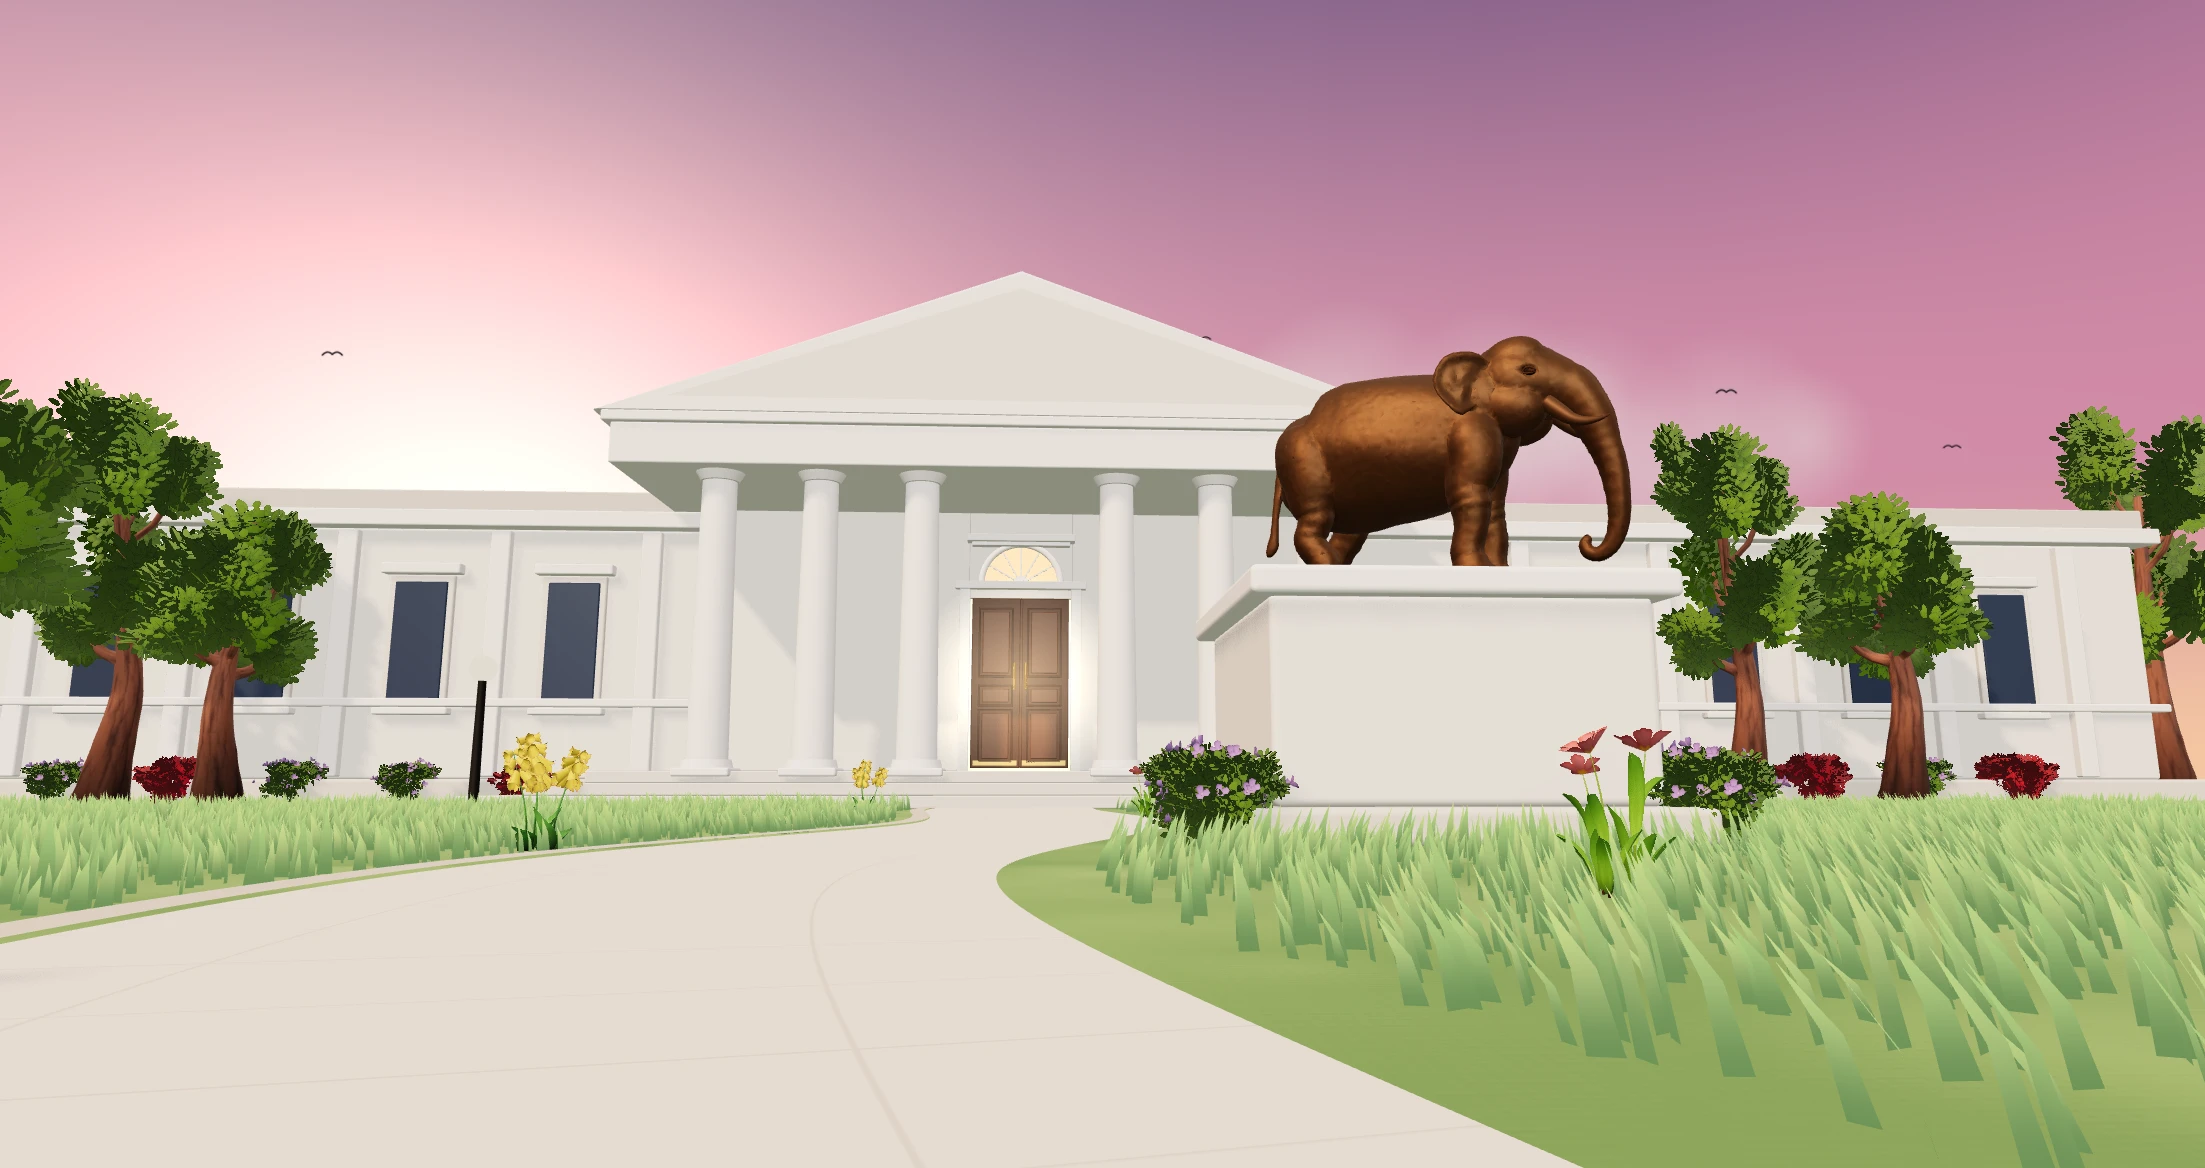
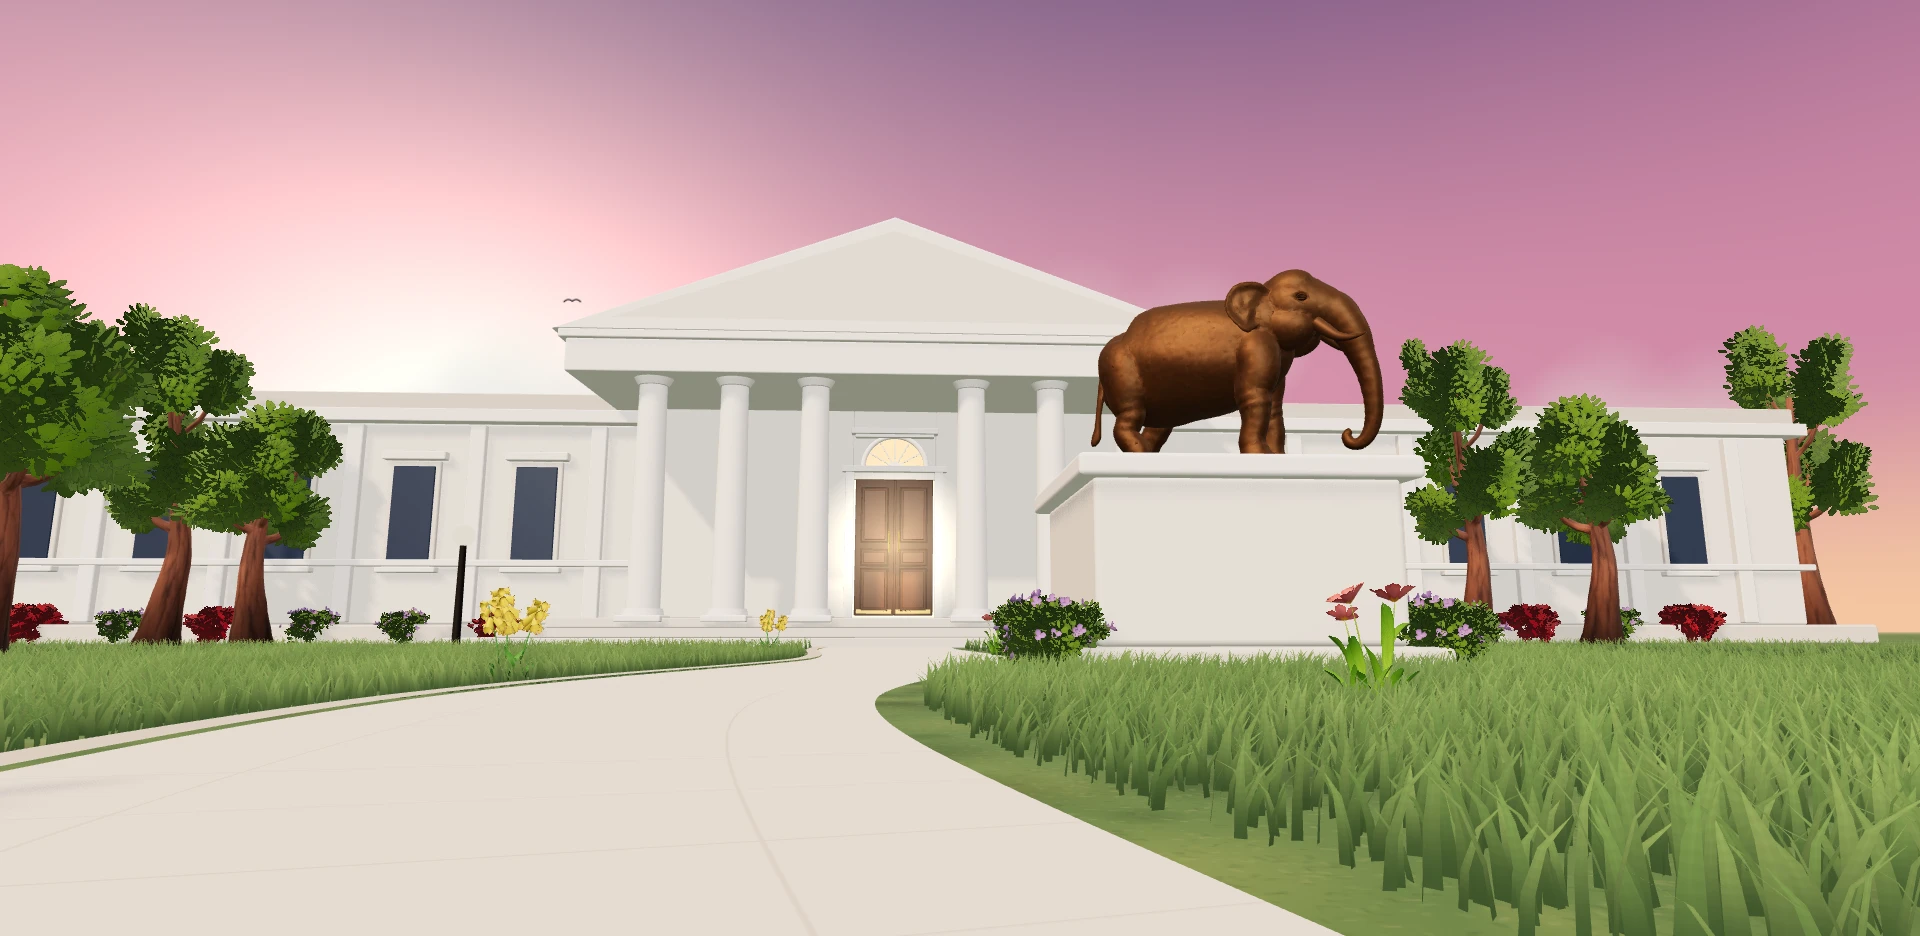
Buat rumput landing lebih rapat dan bertekstur

Changed region(s): [[0.0, 0.2788, 1.0, 1.0], [0.5312, 0.2788, 0.5625, 0.3098], [0.4062, 0.2479, 0.4375, 0.2788]]

diff --git a/web/components/landing/grass.tsx b/web/components/landing/grass.tsx
@@ -3,22 +3,31 @@
 import { useFrame } from "@react-three/fiber";
 import { useEffect, useMemo } from "react";
 import * as THREE from "three";
-import { COLORS, GRASS, STATUE } from "./landing-config";
-import { getRoadCurve } from "./scene-utils";
+import { COLORS, GRASS, PATH, STATUE } from "./landing-config";
+import { getRoadCurve, seededRandom } from "./scene-utils";
 import { useTravel } from "./travel-state";
 
-/**
- * Instanced swaying grass (LANDING_SPEC §4.8): 5-vertex blades, dark base to a
- * per-blade light green tip, wind weighted by height², fading into the fog.
- * Keeps clear of the path and both statue spots.
- */
+function bladeGeometry() {
+  const height = GRASS.bladeHeight;
+  const blade = new THREE.BufferGeometry();
+  blade.setAttribute("position", new THREE.Float32BufferAttribute([
+    -0.034, 0, 0, 0.034, 0, 0,
+    -0.029, height * 0.36, 0.015, 0.029, height * 0.36, 0.015,
+    -0.018, height * 0.73, 0.068, 0.018, height * 0.73, 0.068,
+    0, height, 0.17,
+  ], 3));
+  blade.setAttribute("uv", new THREE.Float32BufferAttribute([
+    0, 0, 1, 0, 0, 0.36, 1, 0.36, 0, 0.73, 1, 0.73, 0.5, 1,
+  ], 2));
+  blade.setIndex([0, 1, 2, 1, 3, 2, 2, 3, 4, 3, 5, 4, 4, 5, 6]);
+  return blade;
+}
+
+/** Short, curved blades, with the densest coverage along the visitor's approach. */
 export function Grass({ count }: { count: number }) {
   const travel = useTravel();
   const built = useMemo(() => {
-    const H = GRASS.bladeHeight;
-    const blade = new THREE.BufferGeometry();
-    blade.setAttribute("position", new THREE.Float32BufferAttribute([-0.06, 0, 0, 0.06, 0, 0, -0.04, 0.35, 0, 0.04, 0.35, 0, 0, H, 0], 3));
-    blade.setIndex([0, 1, 2, 1, 3, 2, 2, 3, 4]);
+    const blade = bladeGeometry();
     const uniforms = {
       uTime: { value: 0 },
       uFog: { value: new THREE.Color(COLORS.horizon) },
@@ -28,50 +37,90 @@ export function Grass({ count }: { count: number }) {
     const mat = new THREE.ShaderMaterial({
       side: THREE.DoubleSide,
       uniforms,
-      vertexShader: /* glsl */ `uniform float uTime; varying float vH; varying float vDist; varying vec3 vTint;
-        attribute vec3 tint;
-        void main(){ vec3 p = position; vH = p.y / ${H.toFixed(2)}; vTint = tint;
-          vec4 wp = modelMatrix * instanceMatrix * vec4(p,1.0);
-          float w = sin(uTime*1.6 + wp.x*0.35 + wp.z*0.25) * 0.12 + sin(uTime*3.1 + wp.x*1.3) * 0.03;
-          wp.x += w * vH * vH; wp.z += w * 0.5 * vH * vH;
-          vec4 mv = viewMatrix * wp; vDist = -mv.z; gl_Position = projectionMatrix * mv; }`,
-      fragmentShader: /* glsl */ `uniform vec3 uFog; uniform float uFadeNear; uniform float uFadeFar; varying float vH; varying float vDist; varying vec3 vTint;
-        void main(){ vec3 base = vec3(0.16,0.30,0.10);
-          vec3 c = mix(base, vTint, smoothstep(0.0,1.0,vH));
-          c = mix(c, uFog, smoothstep(uFadeNear, uFadeFar, vDist));
-          gl_FragColor = vec4(c,1.0);
+      vertexShader: /* glsl */ `
+        uniform float uTime;
+        attribute vec3 variation;
+        varying vec2 vBlade;
+        varying vec3 vVariation;
+        varying float vLight;
+        varying float vDist;
+
+        void main() {
+          vBlade = uv;
+          vVariation = variation;
+          float bend = uv.y * uv.y;
+          vec3 p = position;
+          p.x += (variation.z - 0.5) * 0.13 * bend;
+          p.z *= 0.55 + variation.z * 0.9;
+
+          vec4 root = modelMatrix * instanceMatrix[3];
+          vec4 wp = modelMatrix * instanceMatrix * vec4(p, 1.0);
+          float gust = sin(uTime * 1.5 + root.x * 0.34 + root.z * 0.22);
+          float flutter = sin(uTime * 2.6 + root.z * 1.2 + variation.z * 6.28);
+          wp.xz += vec2(0.065, 0.035) * (gust + 0.22 * flutter) * bend;
+          vec3 bladeNormal = normalize((modelMatrix * instanceMatrix * vec4(0.0, 0.0, 1.0, 0.0)).xyz);
+          vLight = abs(dot(bladeNormal, normalize(vec3(-0.6, 0.0, 0.8))));
+          vec4 mv = viewMatrix * wp;
+          vDist = -mv.z;
+          gl_Position = projectionMatrix * mv;
+        }
+      `,
+      fragmentShader: /* glsl */ `
+        uniform vec3 uFog;
+        uniform float uFadeNear;
+        uniform float uFadeFar;
+        varying vec2 vBlade;
+        varying vec3 vVariation;
+        varying float vLight;
+        varying float vDist;
+
+        void main() {
+          vec3 root = vec3(0.052, 0.098, 0.026);
+          vec3 tip = mix(vec3(0.16, 0.28, 0.06), vec3(0.31, 0.39, 0.105), vVariation.x);
+          vec3 color = mix(root, tip, smoothstep(0.02, 0.94, vBlade.y));
+          float grain = sin(vBlade.y * 85.0 + vVariation.z * 31.0);
+          float detail = 1.0 - smoothstep(6.0, 18.0, vDist);
+          float crease = 1.0 - smoothstep(0.0, 0.23, abs(vBlade.x - 0.46));
+          color *= (0.83 + 0.18 * vLight) * vVariation.y;
+          color *= 1.0 + detail * (0.045 * grain + 0.11 * crease) * vBlade.y;
+          color = mix(color, uFog, smoothstep(uFadeNear, uFadeFar, vDist));
+          gl_FragColor = vec4(color, 1.0);
           #include <colorspace_fragment>
-        }`,
+        }
+      `,
     });
     const mesh = new THREE.InstancedMesh(blade, mat, count);
-    const tint = new Float32Array(count * 3);
+    const variation = new Float32Array(count * 3);
     const dummy = new THREE.Object3D();
+    const rng = seededRandom(437);
     const road = getRoadCurve();
-    const samples = Array.from({ length: 121 }, (_, i) => road.getPointAt(i / 120));
-    const clear2 = GRASS.pathClearance ** 2;
+    const samples = Array.from({ length: 101 }, (_, i) => road.getPointAt(i / 100));
+    const clear2 = (PATH.halfWidth + PATH.edgeWidth + 0.12) ** 2;
     const nearStatue = (x: number, z: number) =>
       [STATUE.desktop, STATUE.portrait].some(
         ([sx, , sz]) => Math.abs(x - sx) < GRASS.statueClearance && Math.abs(z - sz) < GRASS.statueClearance,
       );
     let n = 0;
-    let guard = 0;
-    while (n < count && guard++ < count * 4) {
-      const x = (Math.random() - 0.5) * GRASS.areaHalfX * 2;
-      const z = GRASS.zFrom - Math.random() * GRASS.zDepth;
-      if (samples.some((s) => (s.x - x) ** 2 + (s.z - z) ** 2 < clear2)) continue;
-      if (nearStatue(x, z)) continue;
+    for (let tries = 0; n < count && tries < count * 4; tries++) {
+      const near = rng() < 0.72;
+      const x = (rng() * 2 - 1) * (near ? GRASS.nearHalfX : GRASS.areaHalfX);
+      const z = GRASS.zFrom - rng() * (near ? GRASS.nearDepth : GRASS.zDepth);
+      if (nearStatue(x, z) || samples.some((s) => (s.x - x) ** 2 + (s.z - z) ** 2 < clear2)) continue;
+
+      const patch = 0.5 + 0.28 * Math.sin(x * 0.82 + z * 1.1) * Math.cos(z * 0.68) +
+        0.19 * Math.sin(x * 1.9 - z * 0.73);
+      const height = 0.43 + rng() * 0.53 + patch * 0.32;
+      const width = 0.47 + rng() * 0.66;
       dummy.position.set(x, 0, z);
-      dummy.rotation.set(0, Math.random() * Math.PI, 0);
-      const s = GRASS.scaleMin + Math.random() * GRASS.scaleRange;
-      dummy.scale.set(s, s * (0.5 + Math.random() * 0.5), s);
+      dummy.rotation.set(0, rng() * Math.PI * 2, 0);
+      dummy.scale.set(width, height, 0.75 + rng() * 0.55);
       dummy.updateMatrix();
       mesh.setMatrixAt(n, dummy.matrix);
-      const k = Math.random();
-      tint.set([0.42 + k * 0.2, 0.62 + k * 0.1, 0.22 + k * 0.06], n * 3);
+      variation.set([rng() * 0.67 + patch * 0.33, 0.78 + patch * 0.32 + rng() * 0.18, rng()], n * 3);
       n++;
     }
     mesh.count = n;
-    blade.setAttribute("tint", new THREE.InstancedBufferAttribute(tint, 3));
+    blade.setAttribute("variation", new THREE.InstancedBufferAttribute(variation, 3));
     mesh.frustumCulled = false;
     return { mesh, uniforms, blade, mat };
   }, [count]);

diff --git a/web/components/landing/path.tsx b/web/components/landing/path.tsx
@@ -4,7 +4,7 @@ import { useThree } from "@react-three/fiber";
 import { useEffect, useMemo } from "react";
 import * as THREE from "three";
 import { COLORS, PATH } from "./landing-config";
-import { canvasTexture, getRoadCurve, solid } from "./scene-utils";
+import { canvasTexture, getRoadCurve, seededRandom, solid } from "./scene-utils";
 
 /** Flat ribbon that follows `curve` on the ground, offset `offA..offB` to its side. */
 function ribbon(curve: THREE.Curve<THREE.Vector3>, offA: number, offB: number, y: number, vScale: number) {
@@ -84,31 +84,53 @@ export function Path() {
   );
 }
 
-/** Painted grass ground under everything (LANDING_SPEC §4.8). */
+/** A seamless layer of mottled turf and fine leaf marks under the blades. */
 export function Ground() {
+  const maxAniso = useThree((s) => s.gl.capabilities.getMaxAnisotropy());
   const built = useMemo(() => {
     const tex = canvasTexture(512, 512, (g, w, h) => {
       g.fillStyle = COLORS.ground;
       g.fillRect(0, 0, w, h);
-      // Seeded, so the ground looks the same on every visit.
-      let seed = 7;
-      const rnd = () => ((seed = (seed * 16807) % 2147483647) - 1) / 2147483646;
-      for (let i = 0; i < 260; i++) {
-        const x = rnd() * w;
-        const y = rnd() * h;
-        const r = 20 + rnd() * 60;
-        const gr = g.createRadialGradient(x, y, 0, x, y, r);
-        const c = rnd() < 0.5 ? "104,140,72" : "150,184,98";
-        gr.addColorStop(0, `rgba(${c},0.35)`);
-        gr.addColorStop(1, `rgba(${c},0)`);
-        g.fillStyle = gr;
-        g.fillRect(x - r, y - r, r * 2, r * 2);
+      const rng = seededRandom(7);
+      const acrossTile = (x: number, y: number, radius: number, draw: (x: number, y: number) => void) => {
+        draw(x, y);
+        const dx = x < radius ? w : x > w - radius ? -w : 0;
+        const dy = y < radius ? h : y > h - radius ? -h : 0;
+        if (dx) draw(x + dx, y);
+        if (dy) draw(x, y + dy);
+        if (dx && dy) draw(x + dx, y + dy);
+      };
+      for (let i = 0; i < 120; i++) {
+        const radius = 12 + rng() * 46;
+        const tint = rng() < 0.55 ? "43,65,31" : "131,145,74";
+        acrossTile(rng() * w, rng() * h, radius, (x, y) => {
+          const spot = g.createRadialGradient(x, y, 0, x, y, radius);
+          spot.addColorStop(0, `rgba(${tint},0.34)`);
+          spot.addColorStop(1, `rgba(${tint},0)`);
+          g.fillStyle = spot;
+          g.fillRect(x - radius, y - radius, radius * 2, radius * 2);
+        });
+      }
+      const leafColors = ["#364b2b", "#647b42", "#829453", "#a6a364", "#4c5c32"];
+      g.globalAlpha = 0.31;
+      g.lineWidth = 0.8;
+      for (let i = 0; i < 16_000; i++) {
+        g.strokeStyle = leafColors[Math.floor(rng() * leafColors.length)];
+        const angle = rng() * Math.PI * 2;
+        const length = 0.7 + rng() * 3.3;
+        acrossTile(rng() * w, rng() * h, length, (x, y) => {
+          g.beginPath();
+          g.moveTo(x, y);
+          g.lineTo(x + Math.cos(angle) * length, y + Math.sin(angle) * length);
+          g.stroke();
+        });
       }
     });
     tex.wrapS = tex.wrapT = THREE.RepeatWrapping;
-    tex.repeat.set(40, 40);
+    tex.repeat.set(72, 72);
+    tex.anisotropy = maxAniso;
     return { tex, mat: new THREE.MeshStandardMaterial({ map: tex, roughness: 1 }) };
-  }, []);
+  }, [maxAniso]);
   useEffect(
     () => () => {
       built.tex.dispose();

diff --git a/web/components/landing/landing-config.ts b/web/components/landing/landing-config.ts
@@ -45,7 +45,7 @@ export const COLORS = {
   tympanum: "#eee7db",
   road: "#ece2d1",
   roadEdge: "#d2c6b2",
-  ground: "#6a9149",
+  ground: "#55733d",
   lampPost: "#2f2a26",
   lampBulb: "#fff0cf",
   cloud: "255,236,232",
@@ -169,16 +169,15 @@ export const STATUE = {
 } as const;
 
 export const GRASS = {
-  count: 40_000,
-  countLowEnd: 18_000,
-  bladeHeight: 0.62,
+  count: 68_000,
+  countLowEnd: 34_000,
+  bladeHeight: 0.44,
   areaHalfX: 35,
   zFrom: 20,
   zDepth: 48,
-  pathClearance: 3.3,
+  nearHalfX: 16,
+  nearDepth: 36,
   statueClearance: 3.6,
-  scaleMin: 0.55,
-  scaleRange: 0.5,
   fadeNear: 40,
   fadeFar: 120,
 } as const;

diff --git a/web/components/landing/scene-utils.ts b/web/components/landing/scene-utils.ts
@@ -95,3 +95,8 @@ export function disposeTree(root: THREE.Object3D) {
     for (const m of mats) m.dispose();
   });
 }
+
+/** Repeatable scatter so the landscaping is stable across reloads and device tiers. */
+export function seededRandom(seed: number) {
+  return () => ((seed = (seed * 16807) % 2147483647) - 1) / 2147483646;
+}
